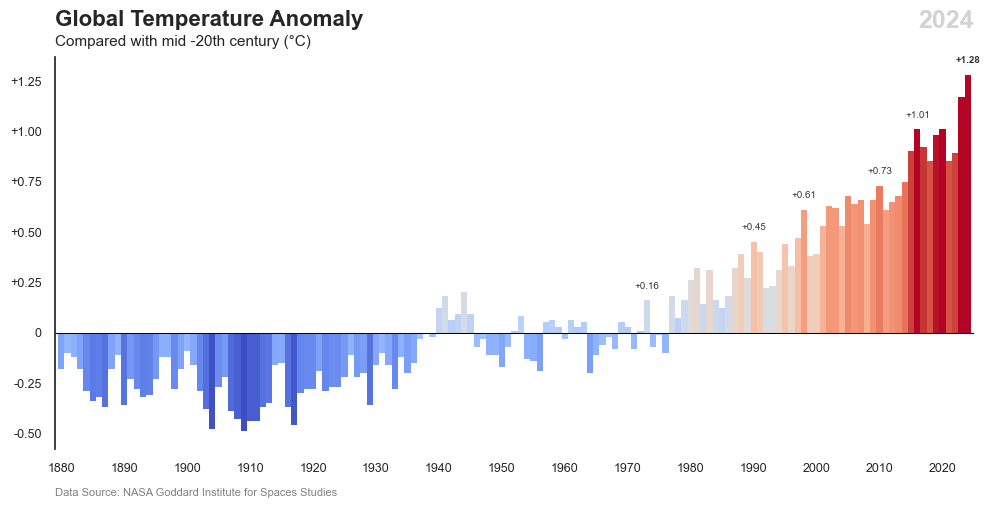
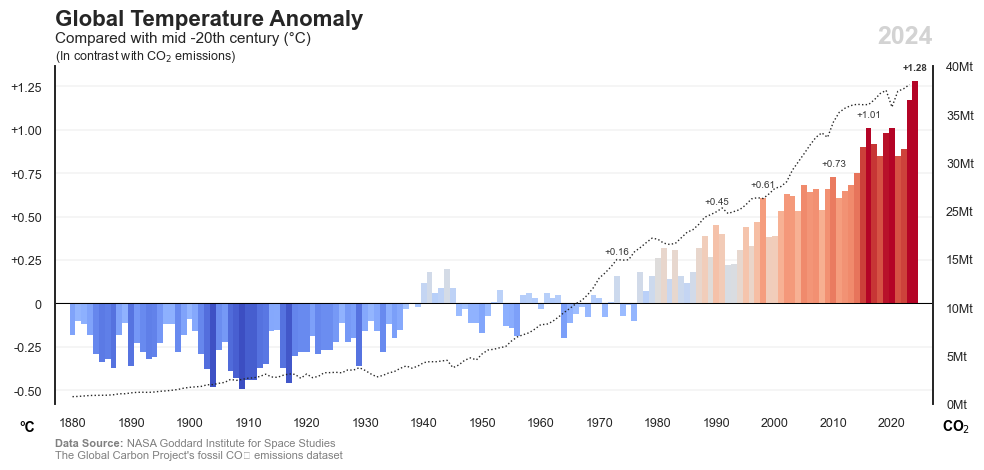
plot temperature anomalies solved

diff --git a/docs/posts/202512-temperature-anomalies/index.html b/docs/posts/202512-temperature-anomalies/index.html
@@ -171,7 +171,7 @@ gtag('config', 'G-GJVKVH4E2Y', { 'anonymize_ip': true});
 <div class="quarto-title">
 <h1 class="title">Global temperature anomalies</h1>
   <div class="quarto-categories">
-    <div class="quarto-category">economy</div>
+    <div class="quarto-category">environment</div>
     <div class="quarto-category">python</div>
   </div>
   </div>
@@ -210,97 +210,164 @@ gtag('config', 'G-GJVKVH4E2Y', { 'anonymize_ip': true});
 <section id="summary" class="level2">
 <h2 class="anchored" data-anchor-id="summary">Summary</h2>
 <p>Global temperature anomalies indicate how Earth’s surface temperature deviates from a historical average, providing crucial insights into climate change. Persistent positive anomalies signal a warming trend driven by greenhouse gas emissions, while negative anomalies are less frequent in recent decades. By tracking these variations, scientists can assess long-term climate patterns, identify extreme weather risks, and evaluate the impact of human activities on global temperatures.</p>
-<div id="0d5e4578" class="cell" data-execution_count="1">
+<div id="a2269349" class="cell" data-execution_count="1">
 <details class="code-fold">
 <summary>Code</summary>
 <div class="sourceCode cell-code" id="cb1"><pre class="sourceCode python code-with-copy"><code class="sourceCode python"><span id="cb1-1"><a href="#cb1-1" aria-hidden="true" tabindex="-1"></a><span class="co"># Libraries</span></span>
 <span id="cb1-2"><a href="#cb1-2" aria-hidden="true" tabindex="-1"></a><span class="co"># =========================================</span></span>
 <span id="cb1-3"><a href="#cb1-3" aria-hidden="true" tabindex="-1"></a><span class="im">import</span> pandas <span class="im">as</span> pd</span>
-<span id="cb1-4"><a href="#cb1-4" aria-hidden="true" tabindex="-1"></a><span class="im">import</span> matplotlib.pyplot <span class="im">as</span> plt</span>
-<span id="cb1-5"><a href="#cb1-5" aria-hidden="true" tabindex="-1"></a><span class="im">import</span> seaborn <span class="im">as</span> sns</span>
-<span id="cb1-6"><a href="#cb1-6" aria-hidden="true" tabindex="-1"></a></span>
-<span id="cb1-7"><a href="#cb1-7" aria-hidden="true" tabindex="-1"></a><span class="co"># Data Extraction</span></span>
-<span id="cb1-8"><a href="#cb1-8" aria-hidden="true" tabindex="-1"></a><span class="co"># =========================================</span></span>
-<span id="cb1-9"><a href="#cb1-9" aria-hidden="true" tabindex="-1"></a><span class="co"># URL NASA GISS global temperature</span></span>
-<span id="cb1-10"><a href="#cb1-10" aria-hidden="true" tabindex="-1"></a>url <span class="op">=</span> <span class="st">"https://data.giss.nasa.gov/gistemp/tabledata_v4/GLB.Ts+dSST.csv"</span></span>
-<span id="cb1-11"><a href="#cb1-11" aria-hidden="true" tabindex="-1"></a></span>
-<span id="cb1-12"><a href="#cb1-12" aria-hidden="true" tabindex="-1"></a><span class="co"># Read csv</span></span>
-<span id="cb1-13"><a href="#cb1-13" aria-hidden="true" tabindex="-1"></a>df <span class="op">=</span> pd.read_csv(url, skiprows<span class="op">=</span><span class="dv">1</span>)</span>
+<span id="cb1-4"><a href="#cb1-4" aria-hidden="true" tabindex="-1"></a><span class="im">import</span> numpy <span class="im">as</span> np</span>
+<span id="cb1-5"><a href="#cb1-5" aria-hidden="true" tabindex="-1"></a><span class="im">import</span> matplotlib.pyplot <span class="im">as</span> plt</span>
+<span id="cb1-6"><a href="#cb1-6" aria-hidden="true" tabindex="-1"></a><span class="im">import</span> seaborn <span class="im">as</span> sns</span>
+<span id="cb1-7"><a href="#cb1-7" aria-hidden="true" tabindex="-1"></a><span class="im">import</span> matplotlib.ticker <span class="im">as</span> ticker</span>
+<span id="cb1-8"><a href="#cb1-8" aria-hidden="true" tabindex="-1"></a></span>
+<span id="cb1-9"><a href="#cb1-9" aria-hidden="true" tabindex="-1"></a><span class="co"># Data Extraction (temperature)</span></span>
+<span id="cb1-10"><a href="#cb1-10" aria-hidden="true" tabindex="-1"></a><span class="co"># =========================================</span></span>
+<span id="cb1-11"><a href="#cb1-11" aria-hidden="true" tabindex="-1"></a><span class="co"># URL NASA GISS global temperature</span></span>
+<span id="cb1-12"><a href="#cb1-12" aria-hidden="true" tabindex="-1"></a>url <span class="op">=</span> <span class="st">"https://data.giss.nasa.gov/gistemp/tabledata_v4/GLB.Ts+dSST.csv"</span></span>
+<span id="cb1-13"><a href="#cb1-13" aria-hidden="true" tabindex="-1"></a>dft <span class="op">=</span> pd.read_csv(url, skiprows<span class="op">=</span><span class="dv">1</span>)</span>
 <span id="cb1-14"><a href="#cb1-14" aria-hidden="true" tabindex="-1"></a></span>
-<span id="cb1-15"><a href="#cb1-15" aria-hidden="true" tabindex="-1"></a><span class="co"># Data Manipulation</span></span>
+<span id="cb1-15"><a href="#cb1-15" aria-hidden="true" tabindex="-1"></a><span class="co"># Data Extraction (co2)</span></span>
 <span id="cb1-16"><a href="#cb1-16" aria-hidden="true" tabindex="-1"></a><span class="co"># =========================================</span></span>
-<span id="cb1-17"><a href="#cb1-17" aria-hidden="true" tabindex="-1"></a><span class="co"># Select columns</span></span>
-<span id="cb1-18"><a href="#cb1-18" aria-hidden="true" tabindex="-1"></a>df <span class="op">=</span> df[[<span class="st">"Year"</span>, <span class="st">"Jan"</span>, <span class="st">"Feb"</span>, <span class="st">"Mar"</span>, <span class="st">"Apr"</span>, <span class="st">"May"</span>, <span class="st">"Jun"</span>, <span class="st">"Jul"</span>, <span class="st">"Aug"</span>, <span class="st">"Sep"</span>, <span class="st">"Oct"</span>, <span class="st">"Nov"</span>, <span class="st">"Dec"</span>, <span class="st">"J-D"</span>]]</span>
-<span id="cb1-19"><a href="#cb1-19" aria-hidden="true" tabindex="-1"></a></span>
-<span id="cb1-20"><a href="#cb1-20" aria-hidden="true" tabindex="-1"></a><span class="co"># Rename columns</span></span>
-<span id="cb1-21"><a href="#cb1-21" aria-hidden="true" tabindex="-1"></a>df.columns <span class="op">=</span> df.columns.<span class="bu">str</span>.lower()</span>
-<span id="cb1-22"><a href="#cb1-22" aria-hidden="true" tabindex="-1"></a>df <span class="op">=</span> df.rename(columns<span class="op">=</span><span class="kw">lambda</span> x: x.lower())</span>
-<span id="cb1-23"><a href="#cb1-23" aria-hidden="true" tabindex="-1"></a></span>
-<span id="cb1-24"><a href="#cb1-24" aria-hidden="true" tabindex="-1"></a><span class="co"># Unpivot columns</span></span>
-<span id="cb1-25"><a href="#cb1-25" aria-hidden="true" tabindex="-1"></a>df <span class="op">=</span> df.melt(id_vars<span class="op">=</span>[<span class="st">"year"</span>], var_name<span class="op">=</span><span class="st">"month"</span>, value_name<span class="op">=</span><span class="st">"value"</span>)</span>
-<span id="cb1-26"><a href="#cb1-26" aria-hidden="true" tabindex="-1"></a>df <span class="op">=</span> df[df[<span class="st">"month"</span>] <span class="op">==</span> <span class="st">"j-d"</span>]</span>
-<span id="cb1-27"><a href="#cb1-27" aria-hidden="true" tabindex="-1"></a></span>
-<span id="cb1-28"><a href="#cb1-28" aria-hidden="true" tabindex="-1"></a><span class="co"># Data Visualization</span></span>
-<span id="cb1-29"><a href="#cb1-29" aria-hidden="true" tabindex="-1"></a><span class="co"># =========================================</span></span>
-<span id="cb1-30"><a href="#cb1-30" aria-hidden="true" tabindex="-1"></a><span class="co"># Font and style</span></span>
-<span id="cb1-31"><a href="#cb1-31" aria-hidden="true" tabindex="-1"></a>plt.rcParams.update({<span class="st">'font.family'</span>: <span class="st">'sans-serif'</span>, <span class="st">'font.sans-serif'</span>: [<span class="st">'Open Sans'</span>], <span class="st">'font.size'</span>: <span class="dv">9</span>})</span>
-<span id="cb1-32"><a href="#cb1-32" aria-hidden="true" tabindex="-1"></a>sns.<span class="bu">set</span>(style<span class="op">=</span><span class="st">"white"</span>, palette<span class="op">=</span><span class="st">"muted"</span>)</span>
+<span id="cb1-17"><a href="#cb1-17" aria-hidden="true" tabindex="-1"></a><span class="co"># URL del archivo CSV</span></span>
+<span id="cb1-18"><a href="#cb1-18" aria-hidden="true" tabindex="-1"></a>url <span class="op">=</span> <span class="st">"https://zenodo.org/records/13981696/files/GCB2024v17_MtCO2_flat.csv?download=1"</span></span>
+<span id="cb1-19"><a href="#cb1-19" aria-hidden="true" tabindex="-1"></a>dfc <span class="op">=</span> pd.read_csv(url)</span>
+<span id="cb1-20"><a href="#cb1-20" aria-hidden="true" tabindex="-1"></a></span>
+<span id="cb1-21"><a href="#cb1-21" aria-hidden="true" tabindex="-1"></a><span class="co"># Data Manipulation (temperature)</span></span>
+<span id="cb1-22"><a href="#cb1-22" aria-hidden="true" tabindex="-1"></a><span class="co"># =========================================</span></span>
+<span id="cb1-23"><a href="#cb1-23" aria-hidden="true" tabindex="-1"></a><span class="co"># Select columns</span></span>
+<span id="cb1-24"><a href="#cb1-24" aria-hidden="true" tabindex="-1"></a>dft <span class="op">=</span> dft[[<span class="st">"Year"</span>, <span class="st">"Jan"</span>, <span class="st">"Feb"</span>, <span class="st">"Mar"</span>, <span class="st">"Apr"</span>, <span class="st">"May"</span>, <span class="st">"Jun"</span>, <span class="st">"Jul"</span>, <span class="st">"Aug"</span>, <span class="st">"Sep"</span>, <span class="st">"Oct"</span>, <span class="st">"Nov"</span>, <span class="st">"Dec"</span>, <span class="st">"J-D"</span>]]</span>
+<span id="cb1-25"><a href="#cb1-25" aria-hidden="true" tabindex="-1"></a></span>
+<span id="cb1-26"><a href="#cb1-26" aria-hidden="true" tabindex="-1"></a><span class="co"># Rename columns</span></span>
+<span id="cb1-27"><a href="#cb1-27" aria-hidden="true" tabindex="-1"></a>dft.columns <span class="op">=</span> dft.columns.<span class="bu">str</span>.lower()</span>
+<span id="cb1-28"><a href="#cb1-28" aria-hidden="true" tabindex="-1"></a>dft <span class="op">=</span> dft.rename(columns<span class="op">=</span><span class="kw">lambda</span> x: x.lower())</span>
+<span id="cb1-29"><a href="#cb1-29" aria-hidden="true" tabindex="-1"></a></span>
+<span id="cb1-30"><a href="#cb1-30" aria-hidden="true" tabindex="-1"></a><span class="co"># Unpivot columns</span></span>
+<span id="cb1-31"><a href="#cb1-31" aria-hidden="true" tabindex="-1"></a>dft <span class="op">=</span> dft.melt(id_vars<span class="op">=</span>[<span class="st">"year"</span>], var_name<span class="op">=</span><span class="st">"month"</span>, value_name<span class="op">=</span><span class="st">"value"</span>)</span>
+<span id="cb1-32"><a href="#cb1-32" aria-hidden="true" tabindex="-1"></a>dft <span class="op">=</span> dft[dft[<span class="st">"month"</span>] <span class="op">==</span> <span class="st">"j-d"</span>]</span>
 <span id="cb1-33"><a href="#cb1-33" aria-hidden="true" tabindex="-1"></a></span>
-<span id="cb1-34"><a href="#cb1-34" aria-hidden="true" tabindex="-1"></a><span class="co"># Define a color map</span></span>
-<span id="cb1-35"><a href="#cb1-35" aria-hidden="true" tabindex="-1"></a>cmap <span class="op">=</span> plt.get_cmap(<span class="st">'coolwarm'</span>)</span>
-<span id="cb1-36"><a href="#cb1-36" aria-hidden="true" tabindex="-1"></a>norm <span class="op">=</span> plt.Normalize(<span class="op">-</span><span class="fl">0.5</span>, <span class="dv">1</span>)</span>
-<span id="cb1-37"><a href="#cb1-37" aria-hidden="true" tabindex="-1"></a></span>
-<span id="cb1-38"><a href="#cb1-38" aria-hidden="true" tabindex="-1"></a><span class="co"># Create figure and plot</span></span>
-<span id="cb1-39"><a href="#cb1-39" aria-hidden="true" tabindex="-1"></a>plt.figure(figsize<span class="op">=</span>(<span class="dv">10</span>, <span class="dv">5</span>))</span>
-<span id="cb1-40"><a href="#cb1-40" aria-hidden="true" tabindex="-1"></a>bars <span class="op">=</span>plt.bar(df[<span class="st">'year'</span>], df[<span class="st">'value'</span>], color<span class="op">=</span>cmap(norm(df[<span class="st">'value'</span>])), width<span class="op">=</span><span class="dv">1</span>, edgecolor<span class="op">=</span><span class="st">'none'</span>)</span>
-<span id="cb1-41"><a href="#cb1-41" aria-hidden="true" tabindex="-1"></a></span>
-<span id="cb1-42"><a href="#cb1-42" aria-hidden="true" tabindex="-1"></a><span class="co"># Add title and labels</span></span>
-<span id="cb1-43"><a href="#cb1-43" aria-hidden="true" tabindex="-1"></a>plt.text(<span class="dv">0</span>, <span class="fl">1.08</span>, <span class="ss">f'Global Temperature Anomaly'</span>, fontsize<span class="op">=</span><span class="dv">16</span>, fontweight<span class="op">=</span><span class="st">'bold'</span>, ha<span class="op">=</span><span class="st">'left'</span>, transform<span class="op">=</span>plt.gca().transAxes)</span>
-<span id="cb1-44"><a href="#cb1-44" aria-hidden="true" tabindex="-1"></a>plt.text(<span class="dv">0</span>, <span class="fl">1.03</span>, <span class="st">'Compared with mid -20th century (°C)'</span>, fontsize<span class="op">=</span><span class="dv">11</span>, color<span class="op">=</span><span class="st">'#262626'</span>, ha<span class="op">=</span><span class="st">'left'</span>, transform<span class="op">=</span>plt.gca().transAxes)</span>
-<span id="cb1-45"><a href="#cb1-45" aria-hidden="true" tabindex="-1"></a>plt.xlim(<span class="dv">1879</span>, <span class="dv">2025</span>)</span>
-<span id="cb1-46"><a href="#cb1-46" aria-hidden="true" tabindex="-1"></a>plt.axhline(y<span class="op">=</span><span class="dv">0</span>, color<span class="op">=</span><span class="st">'black'</span>, linestyle<span class="op">=</span><span class="st">'-'</span>, linewidth<span class="op">=</span><span class="fl">0.75</span>)</span>
-<span id="cb1-47"><a href="#cb1-47" aria-hidden="true" tabindex="-1"></a>yticks <span class="op">=</span> [<span class="op">-</span><span class="fl">0.5</span>, <span class="op">-</span><span class="fl">0.25</span>, <span class="dv">0</span>, <span class="fl">0.25</span>, <span class="fl">0.5</span>, <span class="fl">0.75</span>, <span class="dv">1</span>, <span class="fl">1.25</span>]</span>
-<span id="cb1-48"><a href="#cb1-48" aria-hidden="true" tabindex="-1"></a>ytick_labels <span class="op">=</span> [<span class="ss">f'</span><span class="sc">{</span>y<span class="sc">:+.2f}</span><span class="ss">'</span> <span class="cf">if</span> y <span class="op">!=</span> <span class="dv">0</span> <span class="cf">else</span> <span class="st">'0'</span> <span class="cf">for</span> y <span class="kw">in</span> yticks]</span>
-<span id="cb1-49"><a href="#cb1-49" aria-hidden="true" tabindex="-1"></a>plt.yticks(yticks, ytick_labels, fontsize<span class="op">=</span><span class="dv">9</span>)</span>
-<span id="cb1-50"><a href="#cb1-50" aria-hidden="true" tabindex="-1"></a>plt.xticks([<span class="dv">1880</span>, <span class="dv">1890</span>, <span class="dv">1900</span>, <span class="dv">1910</span>, <span class="dv">1920</span>, <span class="dv">1930</span>, <span class="dv">1940</span>, <span class="dv">1950</span>, <span class="dv">1960</span>, <span class="dv">1970</span>, <span class="dv">1980</span>, <span class="dv">1990</span>, <span class="dv">2000</span>, <span class="dv">2010</span>, <span class="dv">2020</span>], fontsize<span class="op">=</span><span class="dv">9</span>)</span>
-<span id="cb1-51"><a href="#cb1-51" aria-hidden="true" tabindex="-1"></a>plt.tight_layout()</span>
+<span id="cb1-34"><a href="#cb1-34" aria-hidden="true" tabindex="-1"></a><span class="co"># Data Manipulation (co2)</span></span>
+<span id="cb1-35"><a href="#cb1-35" aria-hidden="true" tabindex="-1"></a><span class="co"># =========================================</span></span>
+<span id="cb1-36"><a href="#cb1-36" aria-hidden="true" tabindex="-1"></a><span class="co"># Transform Data</span></span>
+<span id="cb1-37"><a href="#cb1-37" aria-hidden="true" tabindex="-1"></a>dfc <span class="op">=</span> dfc[dfc[<span class="st">'ISO 3166-1 alpha-3'</span>] <span class="op">==</span> <span class="st">'WLD'</span>]</span>
+<span id="cb1-38"><a href="#cb1-38" aria-hidden="true" tabindex="-1"></a>dfc.rename(columns<span class="op">=</span>{<span class="st">'Year'</span>: <span class="st">'year'</span>, <span class="st">'ISO 3166-1 alpha-3'</span>: <span class="st">'iso'</span>, <span class="st">'Total'</span>: <span class="st">'co2'</span>}, inplace<span class="op">=</span><span class="va">True</span>)</span>
+<span id="cb1-39"><a href="#cb1-39" aria-hidden="true" tabindex="-1"></a>dfc <span class="op">=</span> dfc[[<span class="st">'year'</span>, <span class="st">'iso'</span>, <span class="st">'co2'</span>]]</span>
+<span id="cb1-40"><a href="#cb1-40" aria-hidden="true" tabindex="-1"></a></span>
+<span id="cb1-41"><a href="#cb1-41" aria-hidden="true" tabindex="-1"></a><span class="co"># Merge dataframes</span></span>
+<span id="cb1-42"><a href="#cb1-42" aria-hidden="true" tabindex="-1"></a><span class="co"># =========================================</span></span>
+<span id="cb1-43"><a href="#cb1-43" aria-hidden="true" tabindex="-1"></a>df <span class="op">=</span> dft.merge(dfc, on<span class="op">=</span><span class="st">'year'</span>, how<span class="op">=</span><span class="st">'left'</span>)</span>
+<span id="cb1-44"><a href="#cb1-44" aria-hidden="true" tabindex="-1"></a></span>
+<span id="cb1-45"><a href="#cb1-45" aria-hidden="true" tabindex="-1"></a><span class="bu">print</span>(df)</span>
+<span id="cb1-46"><a href="#cb1-46" aria-hidden="true" tabindex="-1"></a></span>
+<span id="cb1-47"><a href="#cb1-47" aria-hidden="true" tabindex="-1"></a><span class="co"># Data Visualization</span></span>
+<span id="cb1-48"><a href="#cb1-48" aria-hidden="true" tabindex="-1"></a><span class="co"># =========================================</span></span>
+<span id="cb1-49"><a href="#cb1-49" aria-hidden="true" tabindex="-1"></a><span class="co"># Font and style</span></span>
+<span id="cb1-50"><a href="#cb1-50" aria-hidden="true" tabindex="-1"></a>plt.rcParams.update({<span class="st">'font.family'</span>: <span class="st">'sans-serif'</span>, <span class="st">'font.sans-serif'</span>: [<span class="st">'Open Sans'</span>], <span class="st">'font.size'</span>: <span class="dv">9</span>})</span>
+<span id="cb1-51"><a href="#cb1-51" aria-hidden="true" tabindex="-1"></a>sns.<span class="bu">set</span>(style<span class="op">=</span><span class="st">"white"</span>, palette<span class="op">=</span><span class="st">"muted"</span>)</span>
 <span id="cb1-52"><a href="#cb1-52" aria-hidden="true" tabindex="-1"></a></span>
-<span id="cb1-53"><a href="#cb1-53" aria-hidden="true" tabindex="-1"></a><span class="co"># Add column labels</span></span>
-<span id="cb1-54"><a href="#cb1-54" aria-hidden="true" tabindex="-1"></a><span class="cf">for</span> i, year <span class="kw">in</span> <span class="bu">enumerate</span>(df[<span class="st">'year'</span>]):</span>
-<span id="cb1-55"><a href="#cb1-55" aria-hidden="true" tabindex="-1"></a>    <span class="cf">if</span> year <span class="kw">in</span> [<span class="dv">1973</span>, <span class="dv">1990</span>, <span class="dv">1998</span>, <span class="dv">2010</span>, <span class="dv">2016</span>, <span class="dv">2024</span>]:</span>
-<span id="cb1-56"><a href="#cb1-56" aria-hidden="true" tabindex="-1"></a>        <span class="co"># Check positive and negative values</span></span>
-<span id="cb1-57"><a href="#cb1-57" aria-hidden="true" tabindex="-1"></a>        symbol <span class="op">=</span> <span class="st">"+"</span> <span class="cf">if</span> df[<span class="st">'value'</span>].iloc[i] <span class="op">&gt;=</span> <span class="dv">0</span> <span class="cf">else</span> <span class="st">"-"</span></span>
-<span id="cb1-58"><a href="#cb1-58" aria-hidden="true" tabindex="-1"></a>        value_text <span class="op">=</span> <span class="ss">f"</span><span class="sc">{</span>symbol<span class="sc">}{</span><span class="bu">abs</span>(df[<span class="st">'value'</span>].iloc[i])<span class="sc">:,.2f}</span><span class="ss">"</span></span>
-<span id="cb1-59"><a href="#cb1-59" aria-hidden="true" tabindex="-1"></a>        </span>
-<span id="cb1-60"><a href="#cb1-60" aria-hidden="true" tabindex="-1"></a>        <span class="co"># Recent value bold</span></span>
-<span id="cb1-61"><a href="#cb1-61" aria-hidden="true" tabindex="-1"></a>        fontweight <span class="op">=</span> <span class="st">'bold'</span> <span class="cf">if</span> year <span class="op">==</span> df[<span class="st">'year'</span>].<span class="bu">max</span>() <span class="cf">else</span> <span class="st">'normal'</span></span>
+<span id="cb1-53"><a href="#cb1-53" aria-hidden="true" tabindex="-1"></a><span class="co"># Define a color map</span></span>
+<span id="cb1-54"><a href="#cb1-54" aria-hidden="true" tabindex="-1"></a>cmap <span class="op">=</span> plt.get_cmap(<span class="st">'coolwarm'</span>)</span>
+<span id="cb1-55"><a href="#cb1-55" aria-hidden="true" tabindex="-1"></a>norm <span class="op">=</span> plt.Normalize(<span class="op">-</span><span class="fl">0.5</span>, <span class="dv">1</span>)</span>
+<span id="cb1-56"><a href="#cb1-56" aria-hidden="true" tabindex="-1"></a></span>
+<span id="cb1-57"><a href="#cb1-57" aria-hidden="true" tabindex="-1"></a><span class="co"># Create figure and plot</span></span>
+<span id="cb1-58"><a href="#cb1-58" aria-hidden="true" tabindex="-1"></a>fig, ax1 <span class="op">=</span> plt.subplots(figsize<span class="op">=</span>(<span class="dv">10</span>, <span class="dv">5</span>))</span>
+<span id="cb1-59"><a href="#cb1-59" aria-hidden="true" tabindex="-1"></a>ax2 <span class="op">=</span> ax1.twinx()</span>
+<span id="cb1-60"><a href="#cb1-60" aria-hidden="true" tabindex="-1"></a>bars <span class="op">=</span>ax1.bar(df[<span class="st">'year'</span>], df[<span class="st">'value'</span>], color<span class="op">=</span>cmap(norm(df[<span class="st">'value'</span>])), width<span class="op">=</span><span class="dv">1</span>, edgecolor<span class="op">=</span><span class="st">'none'</span>)</span>
+<span id="cb1-61"><a href="#cb1-61" aria-hidden="true" tabindex="-1"></a>line <span class="op">=</span> ax2.plot(df[<span class="st">'year'</span>], df[<span class="st">'co2'</span>], label<span class="op">=</span><span class="st">'CO2'</span>, color<span class="op">=</span><span class="st">'#262626'</span>, linestyle<span class="op">=</span><span class="st">':'</span>, linewidth<span class="op">=</span><span class="dv">1</span>)</span>
 <span id="cb1-62"><a href="#cb1-62" aria-hidden="true" tabindex="-1"></a></span>
-<span id="cb1-63"><a href="#cb1-63" aria-hidden="true" tabindex="-1"></a>        <span class="co"># Add label</span></span>
-<span id="cb1-64"><a href="#cb1-64" aria-hidden="true" tabindex="-1"></a>        plt.text(year, df[<span class="st">'value'</span>].iloc[i] <span class="op">+</span> <span class="fl">0.05</span>, value_text,</span>
-<span id="cb1-65"><a href="#cb1-65" aria-hidden="true" tabindex="-1"></a>                 ha<span class="op">=</span><span class="st">'center'</span>, va<span class="op">=</span><span class="st">'bottom'</span>, fontsize<span class="op">=</span><span class="dv">7</span>, color<span class="op">=</span><span class="st">'#363636'</span>, fontweight<span class="op">=</span>fontweight)</span>
-<span id="cb1-66"><a href="#cb1-66" aria-hidden="true" tabindex="-1"></a></span>
-<span id="cb1-67"><a href="#cb1-67" aria-hidden="true" tabindex="-1"></a><span class="co"># Remove spines</span></span>
-<span id="cb1-68"><a href="#cb1-68" aria-hidden="true" tabindex="-1"></a><span class="cf">for</span> spine <span class="kw">in</span> [<span class="st">"top"</span>, <span class="st">"bottom"</span>, <span class="st">"right"</span>]:</span>
-<span id="cb1-69"><a href="#cb1-69" aria-hidden="true" tabindex="-1"></a>    plt.gca().spines[spine].set_visible(<span class="va">False</span>)</span>
-<span id="cb1-70"><a href="#cb1-70" aria-hidden="true" tabindex="-1"></a></span>
-<span id="cb1-71"><a href="#cb1-71" aria-hidden="true" tabindex="-1"></a><span class="co"># Add Data Source</span></span>
-<span id="cb1-72"><a href="#cb1-72" aria-hidden="true" tabindex="-1"></a>plt.text(<span class="dv">0</span>, <span class="op">-</span><span class="fl">0.12</span>, <span class="st">'Data Source: NASA Goddard Institute for Spaces Studies'</span>, </span>
-<span id="cb1-73"><a href="#cb1-73" aria-hidden="true" tabindex="-1"></a>    transform<span class="op">=</span>plt.gca().transAxes, </span>
-<span id="cb1-74"><a href="#cb1-74" aria-hidden="true" tabindex="-1"></a>    fontsize<span class="op">=</span><span class="dv">8</span>, </span>
-<span id="cb1-75"><a href="#cb1-75" aria-hidden="true" tabindex="-1"></a>    color<span class="op">=</span><span class="st">'gray'</span>)</span>
-<span id="cb1-76"><a href="#cb1-76" aria-hidden="true" tabindex="-1"></a></span>
-<span id="cb1-77"><a href="#cb1-77" aria-hidden="true" tabindex="-1"></a> <span class="co"># Add Year label</span></span>
-<span id="cb1-78"><a href="#cb1-78" aria-hidden="true" tabindex="-1"></a>formatted_date <span class="op">=</span> <span class="dv">2024</span> </span>
-<span id="cb1-79"><a href="#cb1-79" aria-hidden="true" tabindex="-1"></a>plt.text(<span class="dv">1</span>, <span class="fl">1.12</span>, <span class="ss">f'</span><span class="sc">{</span>formatted_date<span class="sc">}</span><span class="ss">'</span>,</span>
-<span id="cb1-80"><a href="#cb1-80" aria-hidden="true" tabindex="-1"></a>    transform<span class="op">=</span>plt.gca().transAxes, </span>
-<span id="cb1-81"><a href="#cb1-81" aria-hidden="true" tabindex="-1"></a>    fontsize<span class="op">=</span><span class="dv">18</span>, ha<span class="op">=</span><span class="st">'right'</span>, va<span class="op">=</span><span class="st">'top'</span>,</span>
-<span id="cb1-82"><a href="#cb1-82" aria-hidden="true" tabindex="-1"></a>    fontweight<span class="op">=</span><span class="st">'bold'</span>, color<span class="op">=</span><span class="st">'#D3D3D3'</span>)</span>
-<span id="cb1-83"><a href="#cb1-83" aria-hidden="true" tabindex="-1"></a></span>
-<span id="cb1-84"><a href="#cb1-84" aria-hidden="true" tabindex="-1"></a><span class="co"># Save it..</span></span>
-<span id="cb1-85"><a href="#cb1-85" aria-hidden="true" tabindex="-1"></a>plt.savefig(<span class="st">'C:/Users/guillem.maya/Downloads/FIG_NASA_Temperature_Anomalies.png'</span>, <span class="bu">format</span><span class="op">=</span><span class="st">'png'</span>, bbox_inches<span class="op">=</span><span class="st">'tight'</span>)</span>
+<span id="cb1-63"><a href="#cb1-63" aria-hidden="true" tabindex="-1"></a><span class="co"># Add title and labels</span></span>
+<span id="cb1-64"><a href="#cb1-64" aria-hidden="true" tabindex="-1"></a>ax1.text(<span class="dv">0</span>, <span class="fl">1.12</span>, <span class="ss">f'Global Temperature Anomaly'</span>, fontsize<span class="op">=</span><span class="dv">16</span>, fontweight<span class="op">=</span><span class="st">'bold'</span>, ha<span class="op">=</span><span class="st">'left'</span>, transform<span class="op">=</span>ax1.transAxes)</span>
+<span id="cb1-65"><a href="#cb1-65" aria-hidden="true" tabindex="-1"></a>ax1.text(<span class="dv">0</span>, <span class="fl">1.07</span>, <span class="st">'Compared with mid -20th century (°C)'</span>, fontsize<span class="op">=</span><span class="dv">11</span>, color<span class="op">=</span><span class="st">'#262626'</span>, ha<span class="op">=</span><span class="st">'left'</span>, transform<span class="op">=</span>ax1.transAxes)</span>
+<span id="cb1-66"><a href="#cb1-66" aria-hidden="true" tabindex="-1"></a>ax1.text(<span class="dv">0</span>, <span class="fl">1.02</span>, <span class="vs">r'(In contrast with CO$_2$ emissions)'</span>, fontsize<span class="op">=</span><span class="dv">9</span>, fontweight<span class="op">=</span><span class="st">'light'</span>, color<span class="op">=</span><span class="st">'#262626'</span>, ha<span class="op">=</span><span class="st">'left'</span>, transform<span class="op">=</span>ax1.transAxes)</span>
+<span id="cb1-67"><a href="#cb1-67" aria-hidden="true" tabindex="-1"></a>ax1.set_xlim(<span class="dv">1877</span>, <span class="dv">2027</span>)</span>
+<span id="cb1-68"><a href="#cb1-68" aria-hidden="true" tabindex="-1"></a>ax1.axhline(y<span class="op">=</span><span class="dv">0</span>, color<span class="op">=</span><span class="st">'black'</span>, linestyle<span class="op">=</span><span class="st">'-'</span>, linewidth<span class="op">=</span><span class="fl">0.75</span>)</span>
+<span id="cb1-69"><a href="#cb1-69" aria-hidden="true" tabindex="-1"></a>yticks <span class="op">=</span> [<span class="op">-</span><span class="fl">0.5</span>, <span class="op">-</span><span class="fl">0.25</span>, <span class="dv">0</span>, <span class="fl">0.25</span>, <span class="fl">0.5</span>, <span class="fl">0.75</span>, <span class="dv">1</span>, <span class="fl">1.25</span>]</span>
+<span id="cb1-70"><a href="#cb1-70" aria-hidden="true" tabindex="-1"></a>ytick_labels <span class="op">=</span> [<span class="ss">f'</span><span class="sc">{</span>y<span class="sc">:+.2f}</span><span class="ss">'</span> <span class="cf">if</span> y <span class="op">!=</span> <span class="dv">0</span> <span class="cf">else</span> <span class="st">'0'</span> <span class="cf">for</span> y <span class="kw">in</span> yticks]</span>
+<span id="cb1-71"><a href="#cb1-71" aria-hidden="true" tabindex="-1"></a>ax1.set_yticks(yticks, ytick_labels)</span>
+<span id="cb1-72"><a href="#cb1-72" aria-hidden="true" tabindex="-1"></a>ax1.set_yticklabels(ytick_labels, fontsize<span class="op">=</span><span class="dv">9</span>)</span>
+<span id="cb1-73"><a href="#cb1-73" aria-hidden="true" tabindex="-1"></a>ax1.set_xticks([<span class="dv">1880</span>, <span class="dv">1890</span>, <span class="dv">1900</span>, <span class="dv">1910</span>, <span class="dv">1920</span>, <span class="dv">1930</span>, <span class="dv">1940</span>, <span class="dv">1950</span>, <span class="dv">1960</span>, <span class="dv">1970</span>, <span class="dv">1980</span>, <span class="dv">1990</span>, <span class="dv">2000</span>, <span class="dv">2010</span>, <span class="dv">2020</span>])</span>
+<span id="cb1-74"><a href="#cb1-74" aria-hidden="true" tabindex="-1"></a>ax1.tick_params(axis<span class="op">=</span><span class="st">'x'</span>, labelsize<span class="op">=</span><span class="dv">9</span>)</span>
+<span id="cb1-75"><a href="#cb1-75" aria-hidden="true" tabindex="-1"></a>ax1.yaxis.set_ticks_position(<span class="st">'none'</span>)</span>
+<span id="cb1-76"><a href="#cb1-76" aria-hidden="true" tabindex="-1"></a>ax1.grid(axis<span class="op">=</span><span class="st">'y'</span>, linestyle<span class="op">=</span><span class="st">'-'</span>, color<span class="op">=</span><span class="st">'#262626'</span>, linewidth<span class="op">=</span><span class="fl">0.1</span>, alpha<span class="op">=</span><span class="fl">0.6</span>)</span>
+<span id="cb1-77"><a href="#cb1-77" aria-hidden="true" tabindex="-1"></a>ax2.set_ylim(<span class="dv">0</span>, <span class="dv">40000</span>)</span>
+<span id="cb1-78"><a href="#cb1-78" aria-hidden="true" tabindex="-1"></a>ymin, ymax <span class="op">=</span> ax2.get_ylim()</span>
+<span id="cb1-79"><a href="#cb1-79" aria-hidden="true" tabindex="-1"></a>yticks <span class="op">=</span> np.linspace(ymin, ymax, <span class="dv">8</span>)</span>
+<span id="cb1-80"><a href="#cb1-80" aria-hidden="true" tabindex="-1"></a>ax2.set_yticks(yticks)</span>
+<span id="cb1-81"><a href="#cb1-81" aria-hidden="true" tabindex="-1"></a>yticks_rounded <span class="op">=</span> np.<span class="bu">round</span>(yticks <span class="op">/</span> <span class="dv">5000</span>) <span class="op">*</span> <span class="dv">5000</span></span>
+<span id="cb1-82"><a href="#cb1-82" aria-hidden="true" tabindex="-1"></a>yticks_k <span class="op">=</span> [<span class="ss">f"</span><span class="sc">{</span><span class="bu">int</span>(tick <span class="op">/</span> <span class="dv">1000</span>)<span class="sc">}</span><span class="ss">Mt"</span> <span class="cf">for</span> tick <span class="kw">in</span> yticks_rounded]</span>
+<span id="cb1-83"><a href="#cb1-83" aria-hidden="true" tabindex="-1"></a>ax2.set_yticklabels(yticks_k)</span>
+<span id="cb1-84"><a href="#cb1-84" aria-hidden="true" tabindex="-1"></a>ax2.tick_params(axis<span class="op">=</span><span class="st">'y'</span>, labelsize<span class="op">=</span><span class="dv">9</span>)</span>
+<span id="cb1-85"><a href="#cb1-85" aria-hidden="true" tabindex="-1"></a>ax2.yaxis.set_ticks_position(<span class="st">'none'</span>)</span>
 <span id="cb1-86"><a href="#cb1-86" aria-hidden="true" tabindex="-1"></a></span>
-<span id="cb1-87"><a href="#cb1-87" aria-hidden="true" tabindex="-1"></a><span class="co"># Show the plot!</span></span>
-<span id="cb1-88"><a href="#cb1-88" aria-hidden="true" tabindex="-1"></a>plt.show()</span></code><button title="Copy to Clipboard" class="code-copy-button"><i class="bi"></i></button></pre></div>
+<span id="cb1-87"><a href="#cb1-87" aria-hidden="true" tabindex="-1"></a><span class="co"># Add column labels</span></span>
+<span id="cb1-88"><a href="#cb1-88" aria-hidden="true" tabindex="-1"></a><span class="cf">for</span> i, year <span class="kw">in</span> <span class="bu">enumerate</span>(df[<span class="st">'year'</span>]):</span>
+<span id="cb1-89"><a href="#cb1-89" aria-hidden="true" tabindex="-1"></a>    <span class="cf">if</span> year <span class="kw">in</span> [<span class="dv">1973</span>, <span class="dv">1990</span>, <span class="dv">1998</span>, <span class="dv">2010</span>, <span class="dv">2016</span>, <span class="dv">2024</span>]:</span>
+<span id="cb1-90"><a href="#cb1-90" aria-hidden="true" tabindex="-1"></a>        <span class="co"># Check positive and negative values</span></span>
+<span id="cb1-91"><a href="#cb1-91" aria-hidden="true" tabindex="-1"></a>        symbol <span class="op">=</span> <span class="st">"+"</span> <span class="cf">if</span> df[<span class="st">'value'</span>].iloc[i] <span class="op">&gt;=</span> <span class="dv">0</span> <span class="cf">else</span> <span class="st">"-"</span></span>
+<span id="cb1-92"><a href="#cb1-92" aria-hidden="true" tabindex="-1"></a>        value_text <span class="op">=</span> <span class="ss">f"</span><span class="sc">{</span>symbol<span class="sc">}{</span><span class="bu">abs</span>(df[<span class="st">'value'</span>].iloc[i])<span class="sc">:,.2f}</span><span class="ss">"</span></span>
+<span id="cb1-93"><a href="#cb1-93" aria-hidden="true" tabindex="-1"></a>        </span>
+<span id="cb1-94"><a href="#cb1-94" aria-hidden="true" tabindex="-1"></a>        <span class="co"># Recent value bold</span></span>
+<span id="cb1-95"><a href="#cb1-95" aria-hidden="true" tabindex="-1"></a>        fontweight <span class="op">=</span> <span class="st">'bold'</span> <span class="cf">if</span> year <span class="op">==</span> df[<span class="st">'year'</span>].<span class="bu">max</span>() <span class="cf">else</span> <span class="st">'normal'</span></span>
+<span id="cb1-96"><a href="#cb1-96" aria-hidden="true" tabindex="-1"></a></span>
+<span id="cb1-97"><a href="#cb1-97" aria-hidden="true" tabindex="-1"></a>        <span class="co"># Set the offset based on the year</span></span>
+<span id="cb1-98"><a href="#cb1-98" aria-hidden="true" tabindex="-1"></a>        offset <span class="op">=</span> <span class="fl">0.11</span> <span class="cf">if</span> year <span class="kw">in</span> [<span class="dv">1973</span>, <span class="dv">1990</span>] <span class="cf">else</span> <span class="fl">0.05</span></span>
+<span id="cb1-99"><a href="#cb1-99" aria-hidden="true" tabindex="-1"></a></span>
+<span id="cb1-100"><a href="#cb1-100" aria-hidden="true" tabindex="-1"></a>        <span class="co"># Add label</span></span>
+<span id="cb1-101"><a href="#cb1-101" aria-hidden="true" tabindex="-1"></a>        ax1.text(year, df[<span class="st">'value'</span>].iloc[i] <span class="op">+</span> offset, value_text,</span>
+<span id="cb1-102"><a href="#cb1-102" aria-hidden="true" tabindex="-1"></a>                 ha<span class="op">=</span><span class="st">'center'</span>, va<span class="op">=</span><span class="st">'bottom'</span>, fontsize<span class="op">=</span><span class="dv">7</span>, color<span class="op">=</span><span class="st">'#363636'</span>, fontweight<span class="op">=</span>fontweight)</span>
+<span id="cb1-103"><a href="#cb1-103" aria-hidden="true" tabindex="-1"></a></span>
+<span id="cb1-104"><a href="#cb1-104" aria-hidden="true" tabindex="-1"></a><span class="co"># Remove spines</span></span>
+<span id="cb1-105"><a href="#cb1-105" aria-hidden="true" tabindex="-1"></a><span class="cf">for</span> ax <span class="kw">in</span> [ax1, ax2]:</span>
+<span id="cb1-106"><a href="#cb1-106" aria-hidden="true" tabindex="-1"></a>    <span class="cf">for</span> spine <span class="kw">in</span> [<span class="st">"top"</span>, <span class="st">"bottom"</span>]:</span>
+<span id="cb1-107"><a href="#cb1-107" aria-hidden="true" tabindex="-1"></a>        ax.spines[spine].set_visible(<span class="va">False</span>)</span>
+<span id="cb1-108"><a href="#cb1-108" aria-hidden="true" tabindex="-1"></a></span>
+<span id="cb1-109"><a href="#cb1-109" aria-hidden="true" tabindex="-1"></a><span class="co"># Add Data Source</span></span>
+<span id="cb1-110"><a href="#cb1-110" aria-hidden="true" tabindex="-1"></a>spaces <span class="op">=</span> <span class="st">' '</span> <span class="op">*</span> <span class="dv">23</span></span>
+<span id="cb1-111"><a href="#cb1-111" aria-hidden="true" tabindex="-1"></a>ax1.text(<span class="dv">0</span>, <span class="op">-</span><span class="fl">0.16</span>, <span class="ss">f'</span><span class="sc">{</span>spaces<span class="sc">}</span><span class="ss">NASA Goddard Institute for Space Studies</span><span class="ch">\n</span><span class="ss">The Global Carbon Project</span><span class="ch">\'</span><span class="ss">s fossil CO₂ emissions dataset'</span>, </span>
+<span id="cb1-112"><a href="#cb1-112" aria-hidden="true" tabindex="-1"></a>         transform<span class="op">=</span>ax1.transAxes, </span>
+<span id="cb1-113"><a href="#cb1-113" aria-hidden="true" tabindex="-1"></a>         fontsize<span class="op">=</span><span class="dv">8</span>, </span>
+<span id="cb1-114"><a href="#cb1-114" aria-hidden="true" tabindex="-1"></a>         color<span class="op">=</span><span class="st">'gray'</span>, </span>
+<span id="cb1-115"><a href="#cb1-115" aria-hidden="true" tabindex="-1"></a>         ha<span class="op">=</span><span class="st">'left'</span>, </span>
+<span id="cb1-116"><a href="#cb1-116" aria-hidden="true" tabindex="-1"></a>         family<span class="op">=</span><span class="st">'sans-serif'</span>)</span>
+<span id="cb1-117"><a href="#cb1-117" aria-hidden="true" tabindex="-1"></a></span>
+<span id="cb1-118"><a href="#cb1-118" aria-hidden="true" tabindex="-1"></a><span class="co"># Add Data Source bold</span></span>
+<span id="cb1-119"><a href="#cb1-119" aria-hidden="true" tabindex="-1"></a>ax1.text(<span class="dv">0</span>, <span class="op">-</span><span class="fl">0.16</span>, <span class="st">'Data Source:</span><span class="ch">\n</span><span class="st"> '</span>, </span>
+<span id="cb1-120"><a href="#cb1-120" aria-hidden="true" tabindex="-1"></a>         transform<span class="op">=</span>ax1.transAxes, </span>
+<span id="cb1-121"><a href="#cb1-121" aria-hidden="true" tabindex="-1"></a>         fontsize<span class="op">=</span><span class="dv">8</span>, </span>
+<span id="cb1-122"><a href="#cb1-122" aria-hidden="true" tabindex="-1"></a>         color<span class="op">=</span><span class="st">'gray'</span>, </span>
+<span id="cb1-123"><a href="#cb1-123" aria-hidden="true" tabindex="-1"></a>         ha<span class="op">=</span><span class="st">'left'</span>, </span>
+<span id="cb1-124"><a href="#cb1-124" aria-hidden="true" tabindex="-1"></a>         family<span class="op">=</span><span class="st">'sans-serif'</span>, </span>
+<span id="cb1-125"><a href="#cb1-125" aria-hidden="true" tabindex="-1"></a>         fontweight<span class="op">=</span><span class="st">'bold'</span>)</span>
+<span id="cb1-126"><a href="#cb1-126" aria-hidden="true" tabindex="-1"></a></span>
+<span id="cb1-127"><a href="#cb1-127" aria-hidden="true" tabindex="-1"></a> <span class="co"># Add Year label</span></span>
+<span id="cb1-128"><a href="#cb1-128" aria-hidden="true" tabindex="-1"></a>formatted_date <span class="op">=</span> <span class="dv">2024</span> </span>
+<span id="cb1-129"><a href="#cb1-129" aria-hidden="true" tabindex="-1"></a>ax1.text(<span class="dv">1</span>, <span class="fl">1.12</span>, <span class="ss">f'</span><span class="sc">{</span>formatted_date<span class="sc">}</span><span class="ss">'</span>,</span>
+<span id="cb1-130"><a href="#cb1-130" aria-hidden="true" tabindex="-1"></a>    transform<span class="op">=</span>ax1.transAxes, </span>
+<span id="cb1-131"><a href="#cb1-131" aria-hidden="true" tabindex="-1"></a>    fontsize<span class="op">=</span><span class="dv">18</span>, ha<span class="op">=</span><span class="st">'right'</span>, va<span class="op">=</span><span class="st">'top'</span>,</span>
+<span id="cb1-132"><a href="#cb1-132" aria-hidden="true" tabindex="-1"></a>    fontweight<span class="op">=</span><span class="st">'bold'</span>, color<span class="op">=</span><span class="st">'#D3D3D3'</span>)</span>
+<span id="cb1-133"><a href="#cb1-133" aria-hidden="true" tabindex="-1"></a></span>
+<span id="cb1-134"><a href="#cb1-134" aria-hidden="true" tabindex="-1"></a><span class="co"># Add Celsius</span></span>
+<span id="cb1-135"><a href="#cb1-135" aria-hidden="true" tabindex="-1"></a>ax1.text(<span class="op">-</span><span class="fl">0.04</span>, <span class="op">-</span><span class="fl">0.08</span>, <span class="st">'°C'</span>, </span>
+<span id="cb1-136"><a href="#cb1-136" aria-hidden="true" tabindex="-1"></a>    transform<span class="op">=</span>ax1.transAxes, </span>
+<span id="cb1-137"><a href="#cb1-137" aria-hidden="true" tabindex="-1"></a>    fontsize<span class="op">=</span><span class="dv">10</span>, </span>
+<span id="cb1-138"><a href="#cb1-138" aria-hidden="true" tabindex="-1"></a>    fontweight<span class="op">=</span><span class="st">'bold'</span>,</span>
+<span id="cb1-139"><a href="#cb1-139" aria-hidden="true" tabindex="-1"></a>    color<span class="op">=</span><span class="st">'black'</span>)</span>
+<span id="cb1-140"><a href="#cb1-140" aria-hidden="true" tabindex="-1"></a></span>
+<span id="cb1-141"><a href="#cb1-141" aria-hidden="true" tabindex="-1"></a><span class="co"># Add CO2</span></span>
+<span id="cb1-142"><a href="#cb1-142" aria-hidden="true" tabindex="-1"></a>ax1.text(<span class="fl">1.01</span>, <span class="op">-</span><span class="fl">0.08</span>, <span class="vs">r'CO$_2$'</span>, </span>
+<span id="cb1-143"><a href="#cb1-143" aria-hidden="true" tabindex="-1"></a>    transform<span class="op">=</span>ax1.transAxes, </span>
+<span id="cb1-144"><a href="#cb1-144" aria-hidden="true" tabindex="-1"></a>    fontsize<span class="op">=</span><span class="dv">10</span>, </span>
+<span id="cb1-145"><a href="#cb1-145" aria-hidden="true" tabindex="-1"></a>    fontweight<span class="op">=</span><span class="st">'bold'</span>,</span>
+<span id="cb1-146"><a href="#cb1-146" aria-hidden="true" tabindex="-1"></a>    color<span class="op">=</span><span class="st">'black'</span>)</span>
+<span id="cb1-147"><a href="#cb1-147" aria-hidden="true" tabindex="-1"></a></span>
+<span id="cb1-148"><a href="#cb1-148" aria-hidden="true" tabindex="-1"></a><span class="co"># Adjust layout</span></span>
+<span id="cb1-149"><a href="#cb1-149" aria-hidden="true" tabindex="-1"></a>plt.tight_layout()</span>
+<span id="cb1-150"><a href="#cb1-150" aria-hidden="true" tabindex="-1"></a></span>
+<span id="cb1-151"><a href="#cb1-151" aria-hidden="true" tabindex="-1"></a><span class="co"># Save it..</span></span>
+<span id="cb1-152"><a href="#cb1-152" aria-hidden="true" tabindex="-1"></a>plt.savefig(<span class="st">'C:/Users/guill/Downloads/FIG_NASA_Temperature_Anomalies.png'</span>, <span class="bu">format</span><span class="op">=</span><span class="st">'png'</span>, bbox_inches<span class="op">=</span><span class="st">'tight'</span>)</span>
+<span id="cb1-153"><a href="#cb1-153" aria-hidden="true" tabindex="-1"></a></span>
+<span id="cb1-154"><a href="#cb1-154" aria-hidden="true" tabindex="-1"></a><span class="co"># Show the plot!</span></span>
+<span id="cb1-155"><a href="#cb1-155" aria-hidden="true" tabindex="-1"></a>plt.show()</span></code><button title="Copy to Clipboard" class="code-copy-button"><i class="bi"></i></button></pre></div>
 </details>
 </div>
 <p><a href="FIG_NASA_Temperature_Anomalies.png" class="lightbox" data-gallery="quarto-lightbox-gallery-1"><img src="FIG_NASA_Temperature_Anomalies.png" class="img-fluid" style="width:100.0%"></a></p>

diff --git a/docs/posts.html b/docs/posts.html
@@ -228,7 +228,7 @@ Title
 </tr>
 </thead>
 <tbody class="list">
-<tr data-index="0" data-categories="ZW52aXJvbm1lbnQlMkNweXRob24=" data-listing-date-sort="1762124400000" data-listing-file-modified-sort="1738184587007" data-listing-date-modified-sort="NaN" data-listing-reading-time-sort="3" data-listing-word-count-sort="443" data-listing-title-sort="Global temperature anomalies" data-listing-filename-sort="index.qmd">
+<tr data-index="0" data-categories="ZW52aXJvbm1lbnQlMkNweXRob24=" data-listing-date-sort="1762124400000" data-listing-file-modified-sort="1738191282920" data-listing-date-modified-sort="NaN" data-listing-reading-time-sort="4" data-listing-word-count-sort="746" data-listing-title-sort="Global temperature anomalies" data-listing-filename-sort="index.qmd">
 <td>
 <span class="listing-date">Nov 3, 2025</span>
 </td>
